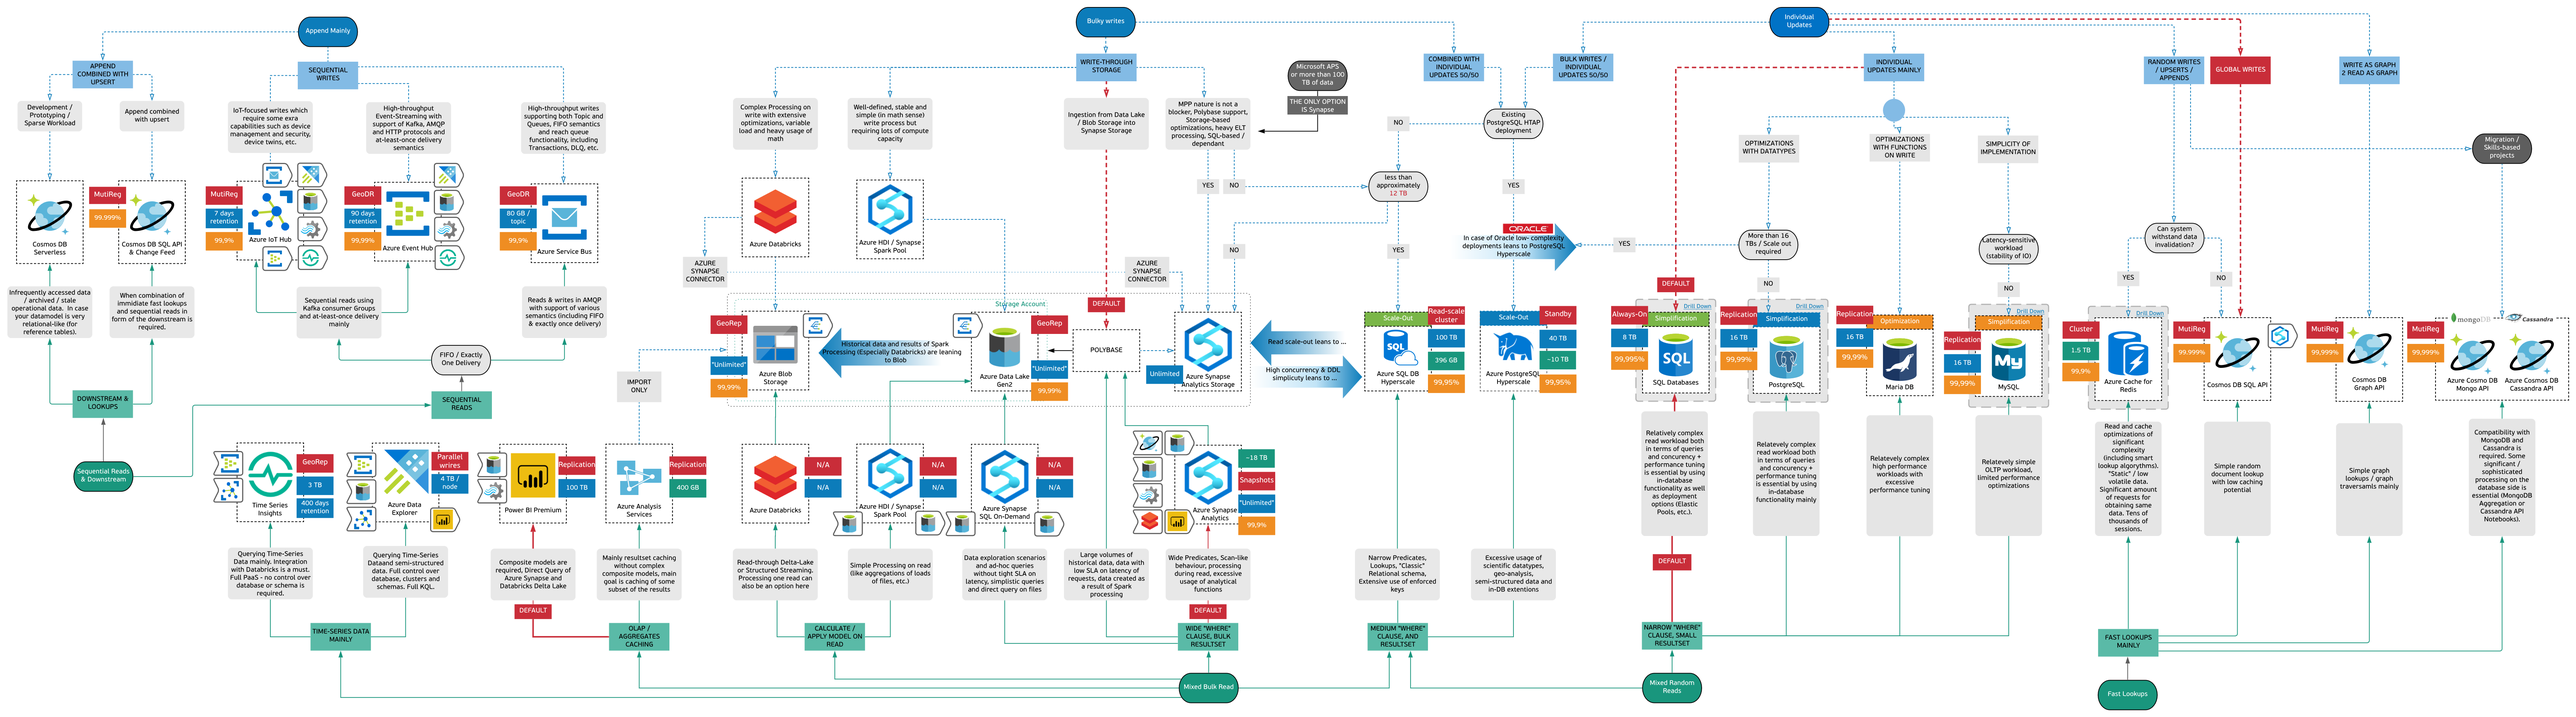
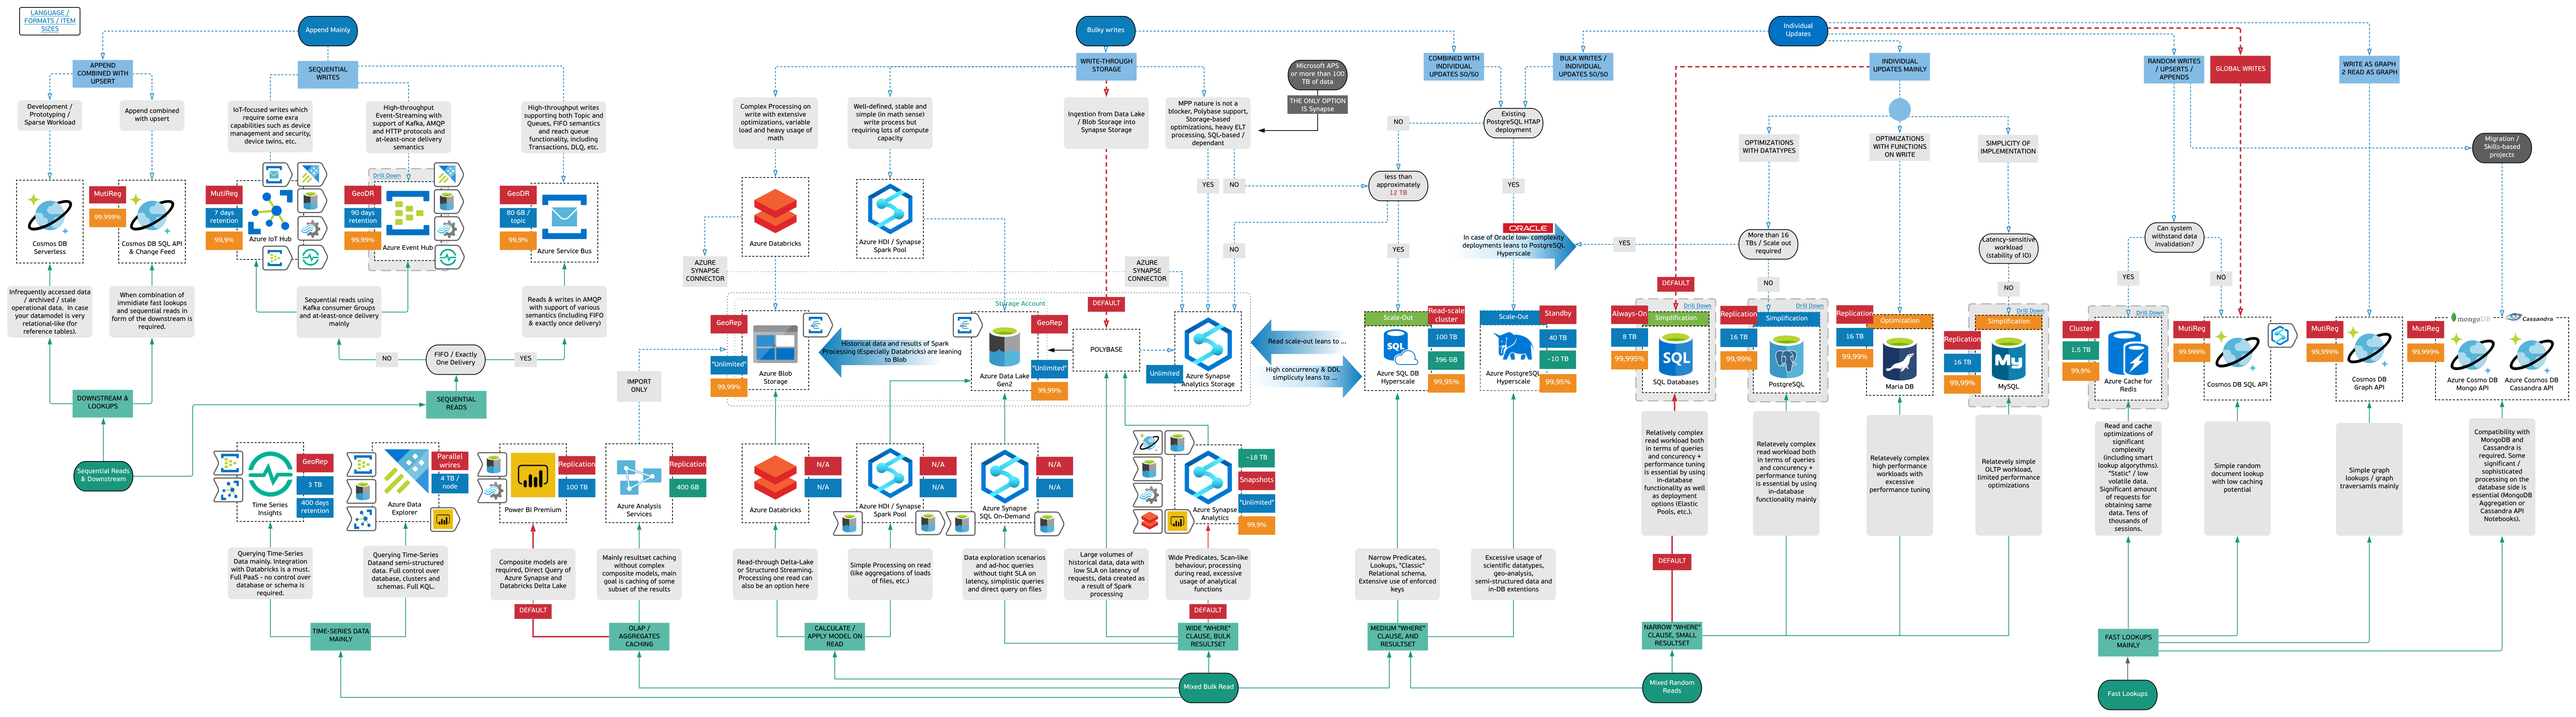
Streaming drill down added

diff --git a/html/forlang.html b/html/forlang.html
@@ -1,0 +1,37 @@
+<html>
+  <head>
+    <!-- Global site tag (gtag.js) - Google Analytics -->
+    <script async src="https://www.googletagmanager.com/gtag/js?id=UA-179718917-1"></script>
+    <script>
+        window.dataLayer = window.dataLayer || [];
+        function gtag(){dataLayer.push(arguments);}
+        gtag('js', new Date());
+
+        gtag('config', 'UA-179718917-1');
+    </script>
+
+    <title>Albero Azure Decisison Tree for Data</title>
+
+    <link rel = "stylesheet"
+         type = "text/css"
+         href = "/css/albero.css" />
+  </head>
+  <body>
+    <div class="topnav">
+        <ul>
+          <li><a href="/index.html">Home</a></li>
+          <li><a href="html/profiles.html">Profiles</a></li>
+          <li><a href="html/legend.html">Legend</a></li>
+          <li><a href="https://github.com/albero-azure/albero/issues">Contact / Feedback</a></li>
+          </ul> 
+    </div> 
+    <img class="center-fit" src="/images/DTAzureSQL.png" alt="Azure SQL Database Decision Tree" style="min-width: 30%" />
+  </body>
+</html>
+
+<!--
+Synapse Formats
+https://docs.microsoft.com/en-us/sql/t-sql/statements/create-external-file-format-transact-sql?view=azure-sqldw-latest&tabs=delimited
+Synapse Item
+https://docs.microsoft.com/en-us/azure/synapse-analytics/sql-data-warehouse/sql-data-warehouse-service-capacity-limits
+-->

diff --git a/index.html b/index.html
@@ -27,11 +27,15 @@
     </div> 
     <img src="mainDT.png" alt="Albero Main Decision Tree" style="min-width: 30%" usemap="#map" />
     <map name="map">
+        <!-- Switch Views -->
+        <area shape="rect" coords="46, 13, 232, 150" alt="Languages / Formats / Sizes" href="html/forlang.html" />
         <!-- Drill Downs -->
         <area shape="rect" coords="4394, 802, 4634, 1094" alt="SQL Database" href="html/azuresql.html" />
         <area shape="rect" coords="4703, 802, 4938, 1100" alt="Postgre SQL" href="html/postgresql.html" />
         <area shape="rect" coords="5299, 817, 5530, 1113" alt="MySQL" href="html/mysql.html" />
         <area shape="rect" coords="5624, 821, 5856, 1119" alt="Redis" href="html/redis.html" />
+        <area shape="rect" coords="1036, 496, 1167, 742" alt="Streaming / Kafka" href="html/kafka.html" />
+        <area shape="rect" coords="990, 447, 1172, 497" alt="Streaming / Kafka" href="html/kafka.html" />
         <!-- Integrations -->
         <area shape="rect" coords="6100, 869, 6203, 948" alt="Azure Synapse Sink for Cosmos DB" href="https://docs.microsoft.com/en-us/azure/cosmos-db/synapse-link" />
         <area shape="rect" coords="3136, 1163, 3221, 1237" alt="Azure Synapse CETAS for ADLS Gen2" href="https://docs.microsoft.com/en-us/azure/synapse-analytics/sql/develop-tables-cetas" />

diff --git a/html/kafka.html b/html/kafka.html
@@ -20,10 +20,11 @@
     <div class="topnav">
         <ul>
             <li><a href="/index.html">Home</a></li>
-            <li><a href="https://github.com/albero-azure/albero/issues">Contact / Feedback</a></li>
+            <li><a href="html/profiles.html">Profiles</a></li>
             <li><a href="html/legend.html">Legend</a></li>
-          </ul> 
+            <li><a href="https://github.com/albero-azure/albero/issues">Contact / Feedback</a></li>
+        </ul> 
     </div> 
-    <img class="center-fit" src="/images/DTMySQL.png" alt="Azure MySQL / MariaDB Decision Tree" style="min-width: 30%" />
+    <img class="center-fit" src="images/DTKafka.png" alt="Streaming on Azure" style="min-width: 30%" />
   </body>
 </html>
